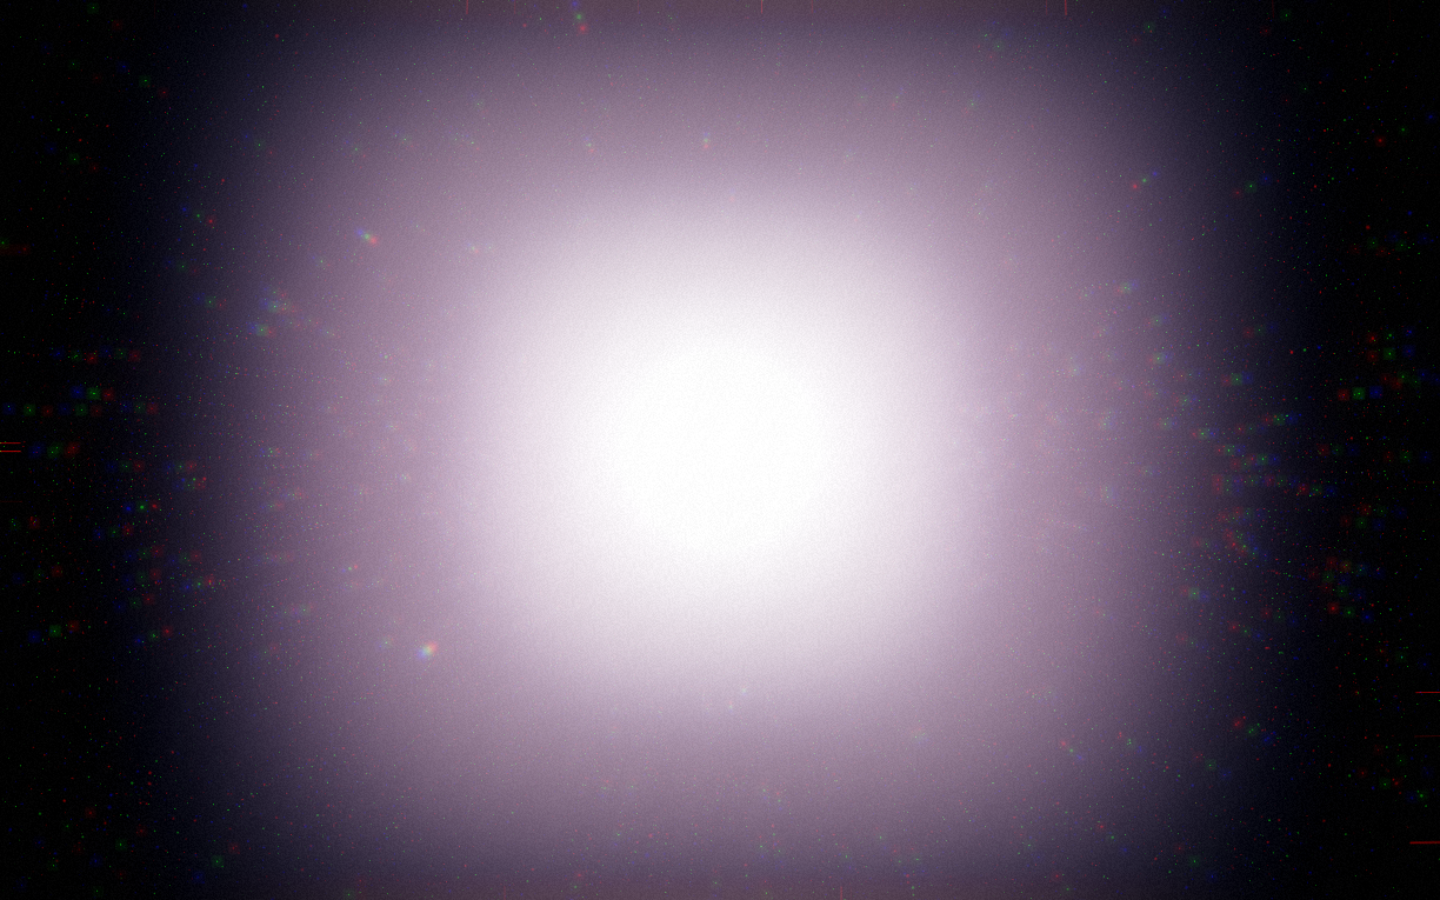
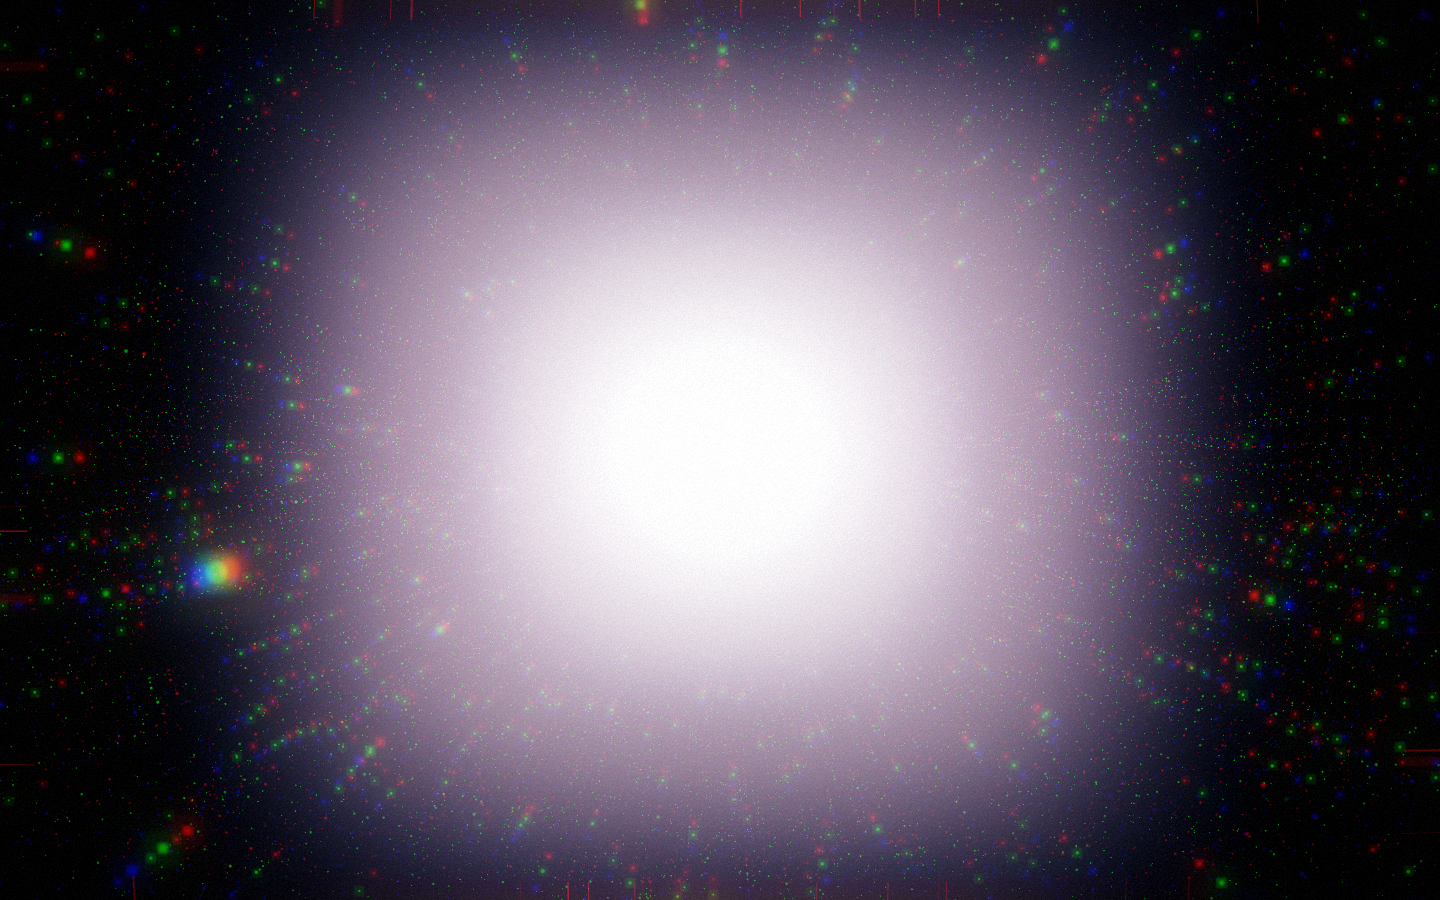
Fix supernova burst uniforms (vec4 slots), tune particle sizes; quality URL param

diff --git a/src/scenes/supernova.ts b/src/scenes/supernova.ts
@@ -6,15 +6,15 @@ const K = 8
 /** Supernova: a turbulent star whose beats launch GPU particle shells (K recycled burst slots). */
 export function supernova(ctx: Ctx): Viz {
   const fade = { value: 0 }
-  const bursts = { value: new Array(K).fill(-100) }, power = { value: new Array(K).fill(0) }
+  const bt = [new THREE.Vector4(-100, -100, -100, -100), new THREE.Vector4(-100, -100, -100, -100)], bp = [new THREE.Vector4(), new THREE.Vector4()]
   const star = new THREE.Mesh(new THREE.IcosahedronGeometry(1.4, 32), new THREE.ShaderMaterial({
     uniforms: { ...U, uFade: fade }, transparent: true, blending: THREE.AdditiveBlending, depthWrite: false,
     vertexShader: 'varying vec3 vN, vP, vV; void main(){ vN=normalize(normalMatrix*normal); vP=position; vec4 mv=modelViewMatrix*vec4(position,1.); vV=normalize(-mv.xyz); gl_Position=projectionMatrix*mv; }',
     fragmentShader: `uniform float uTime,uBass,uBeat,uFade; uniform vec3 uC1,uC2,uC3; varying vec3 vN,vP,vV; ${NOISE}
       void main(){ float n=fbm(vP*2.2+vec3(0.,uTime*0.4,0.)+fbm(vP*4.-uTime*0.2)); float f=pow(1.-max(0.,dot(vN,vV)),2.);
-        vec3 c=mix(vec3(1.,.95,.8)*2.2, uC2*1.6, n)+uC1*f*2.5; gl_FragColor=vec4(c*(0.7+uBass*1.2+uBeat)*uFade,1.); }`,
+        vec3 c=mix(vec3(1.,.85,.6)*0.9, uC2*0.9, smoothstep(.3,.7,n))+uC1*f*1.2; gl_FragColor=vec4(c*(0.28+uBass*0.22+uBeat*0.2)*uFade,1.); }`,
   }))
-  const n = Math.min(ctx.particles, { low: 40000, medium: 90000, high: 160000 }[ctx.quality])
+  const n = Math.min(ctx.particles, { low: 30000, medium: 60000, high: 90000 }[ctx.quality])
   const g = new THREE.BufferGeometry()
   const dir = new Float32Array(n * 3), aB = new Float32Array(n), aS = new Float32Array(n)
   for (let i = 0; i < n; i++) {
@@ -23,31 +23,32 @@ export function supernova(ctx: Ctx): Viz {
   }
   g.setAttribute('position', new THREE.BufferAttribute(dir, 3)); g.setAttribute('aB', new THREE.BufferAttribute(aB, 1)); g.setAttribute('aS', new THREE.BufferAttribute(aS, 1))
   const pmat = new THREE.ShaderMaterial({
-    uniforms: { ...U, uFade: fade, uBurst: bursts, uPow: power }, transparent: true, depthWrite: false, blending: THREE.AdditiveBlending,
-    vertexShader: /* glsl */ `uniform float uTime,uFade,uPR,uTreble; uniform float uBurst[${K}], uPow[${K}]; uniform vec3 uC1,uC2,uC3;
+    uniforms: { ...U, uFade: fade, uBT0: { value: bt[0] }, uBT1: { value: bt[1] }, uBP0: { value: bp[0] }, uBP1: { value: bp[1] } }, transparent: true, depthWrite: false, blending: THREE.AdditiveBlending,
+    vertexShader: /* glsl */ `uniform float uTime,uFade,uPR,uTreble; uniform vec4 uBT0,uBT1,uBP0,uBP1; uniform vec3 uC1,uC2,uC3;
       attribute float aB, aS; varying vec3 vCol; varying float vA;
       void main(){
-        int b = int(aB+.5); float age = uTime - uBurst[b], pw = uPow[b];
+        vec4 sel0 = vec4(equal(vec4(aB), vec4(0.,1.,2.,3.))), sel1 = vec4(equal(vec4(aB), vec4(4.,5.,6.,7.)));
+        float age = uTime - (dot(sel0,uBT0)+dot(sel1,uBT1)), pw = dot(sel0,uBP0)+dot(sel1,uBP1);
         float d = 1.6 + (1.0-exp(-age*aS*1.3))*9.0*pw*aS;
         vec3 p = position*d; p += vec3(sin(age*2.+position.y*9.),cos(age*1.7+position.x*7.),0.)*0.12*age;
         vec4 mv = modelViewMatrix*vec4(p,1.); gl_Position = projectionMatrix*mv;
         float life = exp(-age*0.55)*step(0.,age);
-        gl_PointSize = (1.0+aS) * uPR * 10.0 / -mv.z * (0.6+life);
-        vCol = mix(mix(vec3(1.,.9,.7)*1.6, uC2, smoothstep(0.,1.2,age)), uC1, smoothstep(1.,4.,age));
+        gl_PointSize = (0.6+aS*0.7) * uPR * 46.0 / -mv.z * (0.6+life);
+        vCol = mix(mix(vec3(1.,.9,.7), uC2, smoothstep(0.,1.2,age)), uC1, smoothstep(1.,4.,age));
         vCol = mix(vCol, uC3, step(.9,fract(aS*37.))*uTreble);
-        vA = life*uFade*0.8;
+        vA = pow(life,1.5)*uFade*0.45;
       }`,
     fragmentShader: POINT_FRAG,
   })
   const pts = new THREE.Points(g, pmat); pts.frustumCulled = false
   const group = new THREE.Group(); group.add(star, pts)
-  let slot = 0, last = 0
-  const fire = (s: number) => { bursts.value[slot] = U.uTime.value; power.value[slot] = s; slot = (slot + 1) % K; last = U.uTime.value }
+  let slot = 0, last = -10
+  const fire = (s: number) => { bt[slot >> 2].setComponent(slot & 3, U.uTime.value); bp[slot >> 2].setComponent(slot & 3, s); slot = (slot + 1) % K; last = U.uTime.value }
   return {
     name: 'Supernova', key: 'supernova', group, fade, orbit: { dist: 15, height: 4, speed: 0.06 },
     update: (dt, b) => {
       const t = U.uTime.value
-      if ((b.beat && t - last > 0.3) || t - last > 2.2) fire(0.55 + Math.min(1.2, b.bass + b.drop * 0.8))
+      if ((b.beat && t - last > 0.3) || t - last > 1.8) fire(0.55 + Math.min(1.2, b.bass + b.drop * 0.8))
       star.scale.setScalar(1 + b.bass * 0.25 + b.beatPulse * 0.15); star.rotation.y += dt * 0.1
     },
   }

diff --git a/src/scenes/warp.ts b/src/scenes/warp.ts
@@ -9,7 +9,7 @@ export function warp(ctx: Ctx): Viz {
   const g = new THREE.BufferGeometry()
   const seed = new Float32Array(n * 6), tail = new Float32Array(n * 2)
   for (let i = 0; i < n; i++) {
-    const a = Math.random() * Math.PI * 2, r = 0.6 + Math.pow(Math.random(), 0.6) * 14, z = Math.random()
+    const a = Math.random() * Math.PI * 2, r = 1.6 + Math.pow(Math.random(), 0.7) * 16, z = Math.random()
     for (let k = 0; k < 2; k++) { seed.set([Math.cos(a) * r, Math.sin(a) * r, z], (i * 2 + k) * 3); tail[i * 2 + k] = k }
   }
   g.setAttribute('position', new THREE.BufferAttribute(seed, 3))
@@ -23,9 +23,9 @@ export function warp(ctx: Ctx): Viz {
         vec2 xy = mat2(cos(swirl),-sin(swirl),sin(swirl),cos(swirl))*position.xy;
         vec3 p = vec3(xy, z - aTail*uStretch*(0.6+fract(position.z*13.)*0.8));
         gl_Position = projectionMatrix*modelViewMatrix*vec4(p,1.);
-        float near = smoothstep(-L, -L*0.6, z);
+        float near = smoothstep(-L, -8.0, z); near *= near;
         vec3 c = mix(uC3, uC1, fract(position.z*7.3)); c = mix(vec3(1.), c, 0.55 + 0.3*aTail);
-        vCol = c * near * (1.0-aTail*0.85) * (0.6+uBeat*0.8+uTreble*0.6) * uFade * (0.5+uStretch*0.06);
+        vCol = c * near * (1.0-aTail*0.85) * (0.6+uBeat*0.8+uTreble*0.6) * uFade * (0.35+uStretch*0.04) * 0.22;
       }`,
     fragmentShader: 'varying vec3 vCol; void main(){ gl_FragColor=vec4(vCol,1.); }',
   })

diff --git a/src/main.ts b/src/main.ts
@@ -23,7 +23,7 @@ const store = { get: (k: string, d: string) => localStorage.getItem('sidereal:' 
 // ---------- quality ----------
 const mobile = matchMedia('(pointer: coarse)').matches || innerWidth < 760
 const autoQ: Quality = mobile ? 'low' : (navigator.hardwareConcurrency ?? 4) >= 8 ? 'high' : 'medium'
-let qSetting = store.get('quality', 'auto')
+let qSetting = params.get('quality') ?? store.get('quality', 'auto')
 const quality = (): Quality => (qSetting === 'auto' ? autoQ : (qSetting as Quality))
 const basePR = () => Math.min(devicePixelRatio, { low: 1, medium: 1.5, high: 2 }[quality()])
 let dynScale = 1
